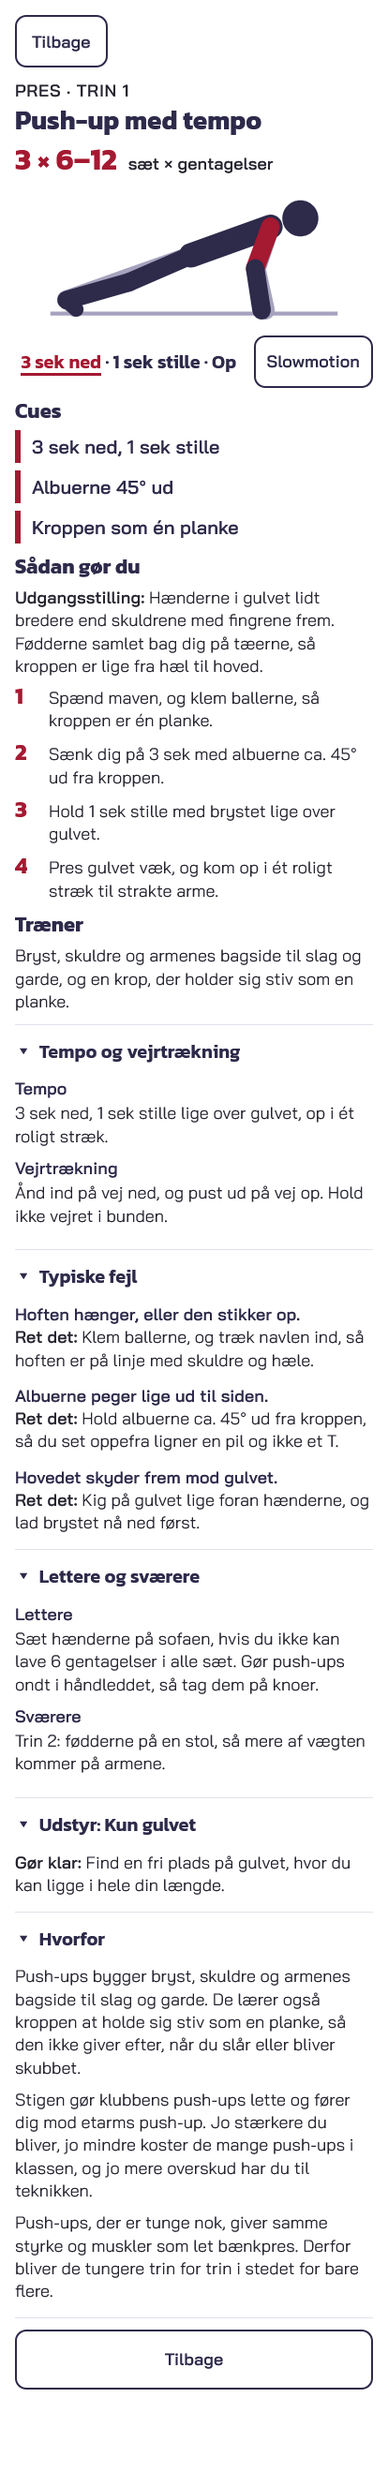
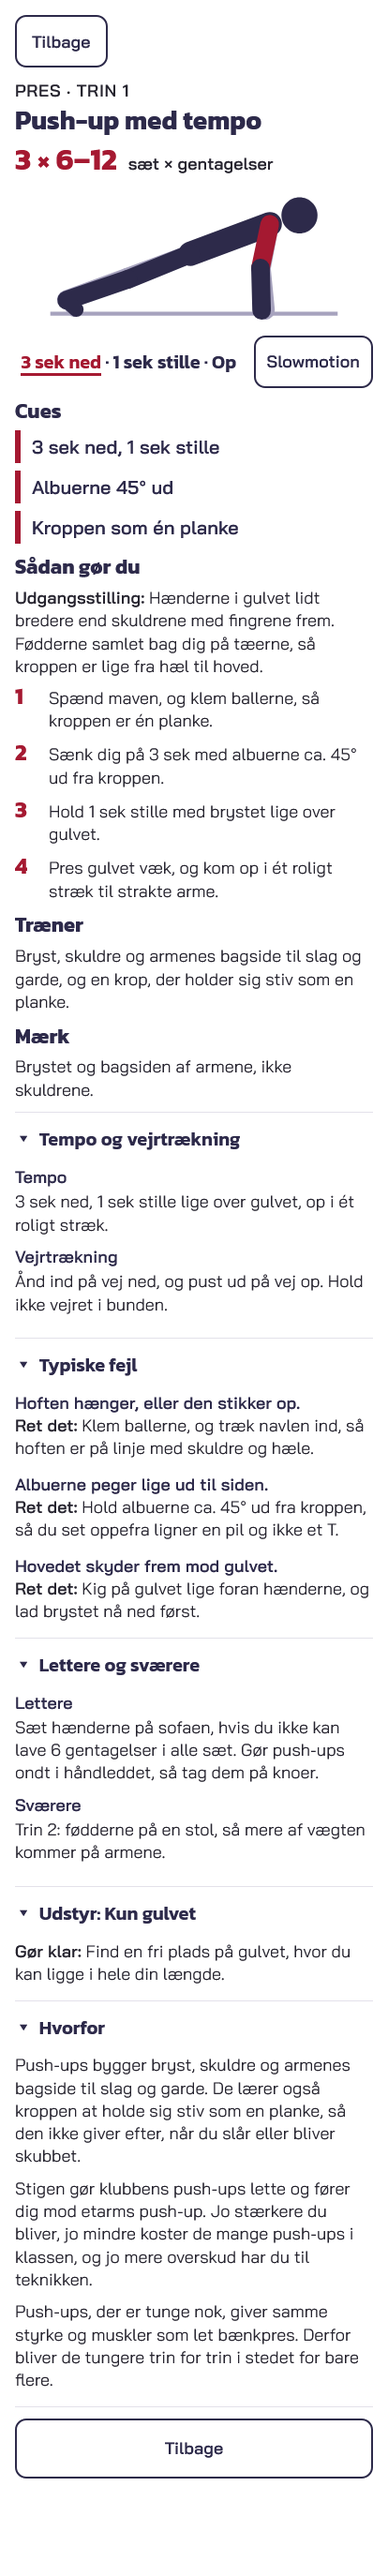
ui: »Mærk« right after »Træner« on the exercise card, press.1 as the first example (D55)
Claude-Session: https://claude.ai/code/session_01VvEZwGyT4vba1A14M2oTxQ

diff --git a/src/ui/components/ExerciseCard.tsx b/src/ui/components/ExerciseCard.tsx
@@ -4,8 +4,8 @@
 // until then its pictogram from program/pictos.json with the phases as text under it. Without an
 // explanation the card shows the programme's execution and cues without sources (DECISIONS.md D43).
 // The order lets it be skimmed in a pause: figure, cues, »Sådan gør du« with the start position
-// first, then »Træner« (D47). Loaded with lazy() from src/ui/card.tsx: it fetches content and holds
-// the figure system, so never in the start files (SPEC 7).
+// first, then »Træner« (D47) and »Mærk« (D55). Loaded with lazy() from src/ui/card.tsx: it fetches
+// content and holds the figure system, so never in the start files (SPEC 7).
 import type { ComponentChildren } from 'preact';
 import { useEffect, useMemo, useRef } from 'preact/hooks';
 import { loadExplain, loadFigures } from '../../content/load.ts';
@@ -238,7 +238,7 @@ function Section({ title, children }: { title: string; children: ComponentChildr
  * »Sådan gør du« with the start position first and the numbered steps, the movements when there are
  * several (the warm-up's »Mobilisér«, the session's power step in »Potensér«, docs/SPEC.md 9.1:
  * each with its figure under its name when it is drawn, otherwise its name and phases on one line),
- * then »Træner«.
+ * then »Træner« and »Mærk«: where the step should be felt, when the explanation has it (D55).
  */
 function Explained({
   x,
@@ -297,6 +297,11 @@ function Explained({
       <Section title="Træner">
         <p>{x.trains}</p>
       </Section>
+      {x.feel && (
+        <Section title="Mærk">
+          <p>{x.feel}</p>
+        </Section>
+      )}
     </>
   );
 }
